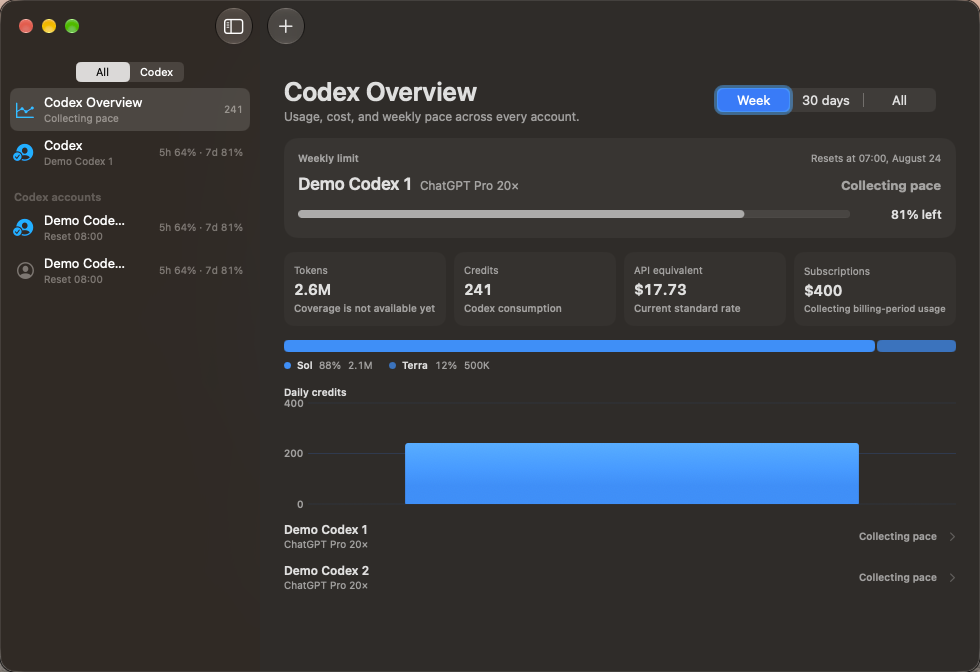
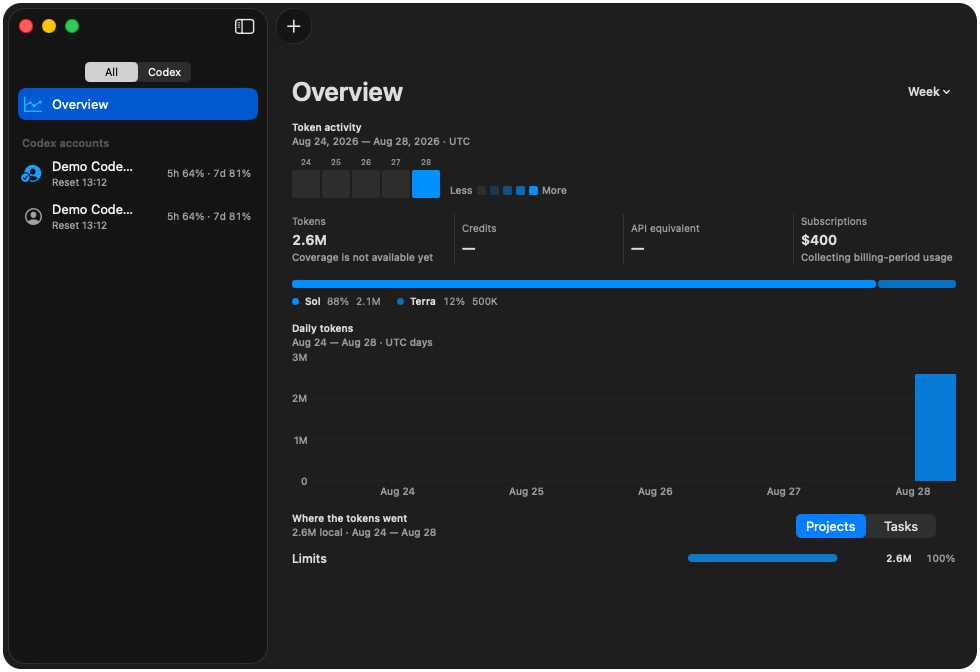
docs(readme): refresh transparent app screenshots

diff --git a/script/mask_screenshot_corners.swift b/script/mask_screenshot_corners.swift
@@ -5,11 +5,17 @@ import Foundation
 import ImageIO
 import UniformTypeIdentifiers
 
-let cornerRadius: CGFloat = 13
-let paths = CommandLine.arguments.dropFirst()
+let cornerRadius: CGFloat = 18
+let transparentFrame = 3
+var arguments = Array(CommandLine.arguments.dropFirst())
+let checkOnly = arguments.first == "--check"
+if checkOnly {
+    arguments.removeFirst()
+}
+let paths = arguments
 
 guard !paths.isEmpty else {
-    FileHandle.standardError.write(Data("Usage: mask_screenshot_corners.swift <png> [...]\n".utf8))
+    FileHandle.standardError.write(Data("Usage: mask_screenshot_corners.swift [--check] <png> [...]\n".utf8))
     exit(2)
 }
 
@@ -35,9 +41,38 @@ for path in paths {
 
     let bounds = CGRect(x: 0, y: 0, width: image.width, height: image.height)
     context.clear(bounds)
+    context.setBlendMode(.copy)
+
+    if checkOnly {
+        context.draw(image, in: bounds)
+        guard let data = context.data else {
+            FileHandle.standardError.write(Data("Cannot inspect PNG: \(path)\n".utf8))
+            exit(1)
+        }
+        let bytes = data.assumingMemoryBound(to: UInt8.self)
+        let isTransparent: (Int, Int) -> Bool = { x, y in
+            bytes[(y * context.bytesPerRow) + (x * 4) + 3] == 0
+        }
+        let horizontalFrameIsTransparent = (0..<transparentFrame).allSatisfy { y in
+            (0..<image.width).allSatisfy { x in
+                isTransparent(x, y) && isTransparent(x, image.height - 1 - y)
+            }
+        }
+        let verticalFrameIsTransparent = (0..<transparentFrame).allSatisfy { x in
+            (transparentFrame..<(image.height - transparentFrame)).allSatisfy { y in
+                isTransparent(x, y) && isTransparent(image.width - 1 - x, y)
+            }
+        }
+        guard horizontalFrameIsTransparent && verticalFrameIsTransparent else {
+            FileHandle.standardError.write(Data("Screenshot background reaches its outer frame: \(path)\n".utf8))
+            exit(1)
+        }
+        continue
+    }
+
     context.setAllowsAntialiasing(true)
     context.setShouldAntialias(true)
-    let cleanBounds = bounds.insetBy(dx: 1, dy: 1)
+    let cleanBounds = bounds.insetBy(dx: CGFloat(transparentFrame), dy: CGFloat(transparentFrame))
     context.addPath(CGPath(
         roundedRect: cleanBounds,
         cornerWidth: cornerRadius,

diff --git a/site/index.html b/site/index.html
@@ -327,7 +327,7 @@
         </ul>
       </div>
       <picture class="tray-shot">
-        <img src="images/limits-tray.png" alt="Limits menu bar panel with sanitized Codex and Claude account limits" width="326" height="475" loading="lazy">
+        <img src="images/limits-tray.png" alt="Limits menu bar panel with sanitized Codex and Claude account limits" width="326" height="388" loading="lazy">
       </picture>
     </section>
 
